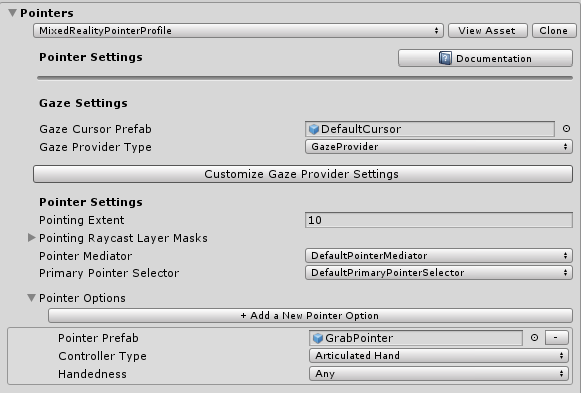
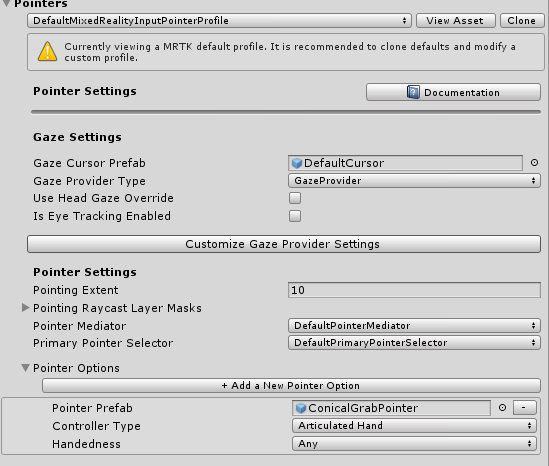
docs update and removing old debug statements

Changed region(s): [[0.0, 0.0, 1.0, 1.0]]

diff --git a/Assets/MRTK/SDK/Features/UX/Scripts/Pointers/SpherePointer.cs b/Assets/MRTK/SDK/Features/UX/Scripts/Pointers/SpherePointer.cs
@@ -481,10 +481,6 @@ namespace Microsoft.MixedReality.Toolkit.Input
                         
                         if (grabbable != null)
                         {
-                            Debug.Log(grabbable);
-                            Debug.Log(relativeColliderPosition);
-                            Debug.Log(relativeColliderPosition.sqrMagnitude);
-                            Debug.Log(pointerPosition.x + " " + pointerPosition.y + " " + pointerPosition.z);
                             return true;
                         }
                     }

diff --git a/Documentation/Input/Pointers.md b/Documentation/Input/Pointers.md
@@ -107,11 +107,11 @@ Useful Sphere Pointer properties:
 
 - *Sphere Cast Radius*: The radius for the sphere used to query for grabbable objects.
 - *Near Object Margin*: The distance on top of the Sphere Cast Radius to query for detecting if an object is near the pointer. Total Near Object detection radius is Sphere Cast Radius + Near Object Margin
-- *Near Object Sector Angle*: The angle around the forward axis of the pointer for querying for nearby objects. Makes the `IsNearObject` query function like a cone. 
-- *Near Object Smoothing Factor*: Smoothing factor for Near Object detection. If an object is detected in the Near Object Radius, the queried radius then becomes Near Object Radius * (1 + Near Object Smoothing Factor) to reduce the sensitivity and make it harder for an object to leave the detection range.
+- *Near Object Sector Angle*: The angle around the forward axis of the pointer for querying for nearby objects. Makes the `IsNearObject` query function like a cone. This is set to 66 degrees by default to match Hololens 2 behavior
 
 ![Sphere pointer modified to only query for objects in the forward direction](https://user-images.githubusercontent.com/39840334/82500569-72d58300-9aa8-11ea-8102-ec9a62832d4e.png)
 
+- *Near Object Smoothing Factor*: Smoothing factor for Near Object detection. If an object is detected in the Near Object Radius, the queried radius then becomes Near Object Radius * (1 + Near Object Smoothing Factor) to reduce the sensitivity and make it harder for an object to leave the detection range.
 - *Grab Layer Masks* - A prioritized array of LayerMasks to determine which possible GameObjects the pointer can interact with and the order of interaction to attempt. Note that a GameObject must also have a `NearInteractionGrabbable` to interact with a SpherePointer.
     > [!NOTE]
     > The Spatial Awareness layer is disabled in the default GrabPointer prefab provided by MRTK. This is done to reduce performance impact of doing a sphere overlap query with the spatial mesh. You can enable this by modifying the GrabPointer prefab.

diff --git a/Documentation/Input/HowToAddNearInteractivity.md b/Documentation/Input/HowToAddNearInteractivity.md
@@ -16,8 +16,9 @@ Three key steps are required to listen for touch and/or grab input events on a p
 
     ![Grab Pointer Profile Example](../Images/Input/Pointers/GrabPointer_MRTKProfile.png)
 
-    The default grab pointer will query for nearby objects in a sphere around the grab point. By replacing the prefab with the `ConicalGrabPointer` prefab
-    (Assets/MRTK/SDK/Features/UX/Prefabs/Pointers) , you can change the behavior to more closely resemble the default Hololens 2 interface, which queries for nearby objects using a cone.
+    The default grab pointer queries for nearby objects in a cone around the grab point to match the default Hololens 2 interface.
+
+    ![Conical Grab Pointer](https://user-images.githubusercontent.com/39840334/82500569-72d58300-9aa8-11ea-8102-ec9a62832d4e.png)
 
 1. On the GameObject that should be grabbable, add a [`NearInteractionGrabbable`](xref:Microsoft.MixedReality.Toolkit.Input.NearInteractionGrabbable), as well as a collider.
 
